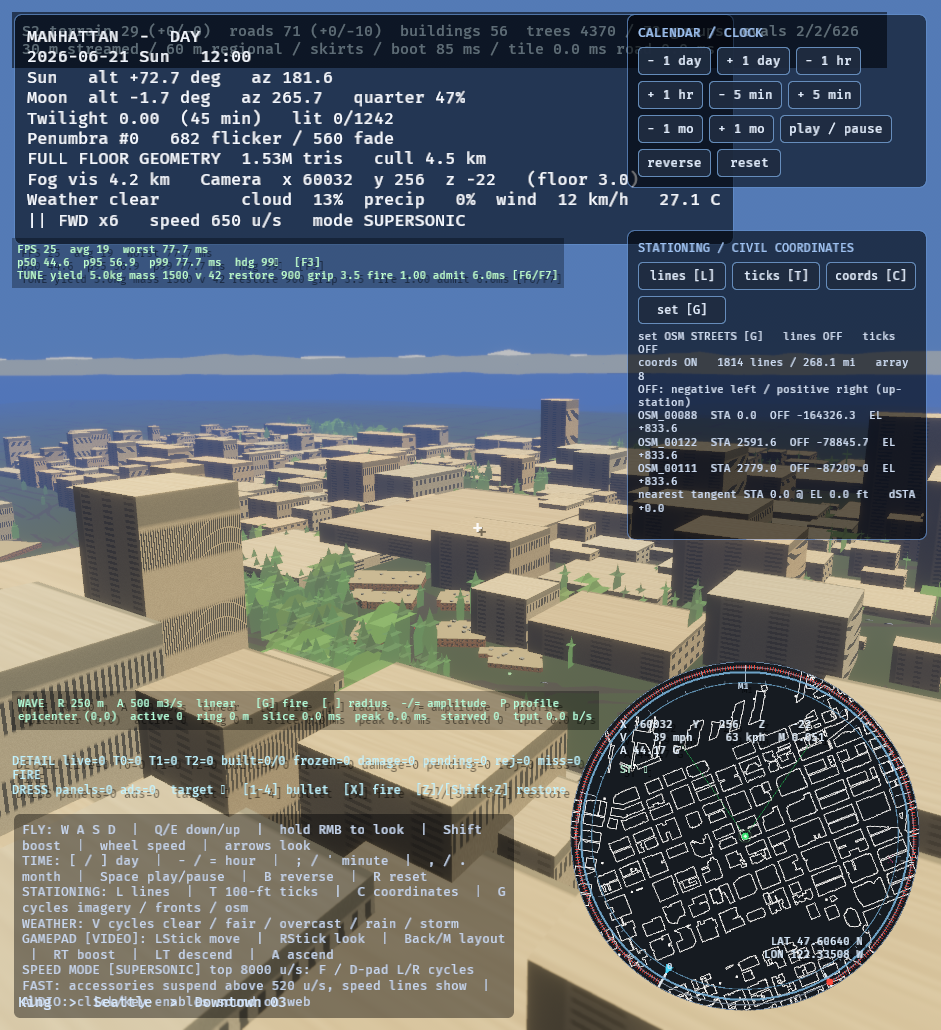
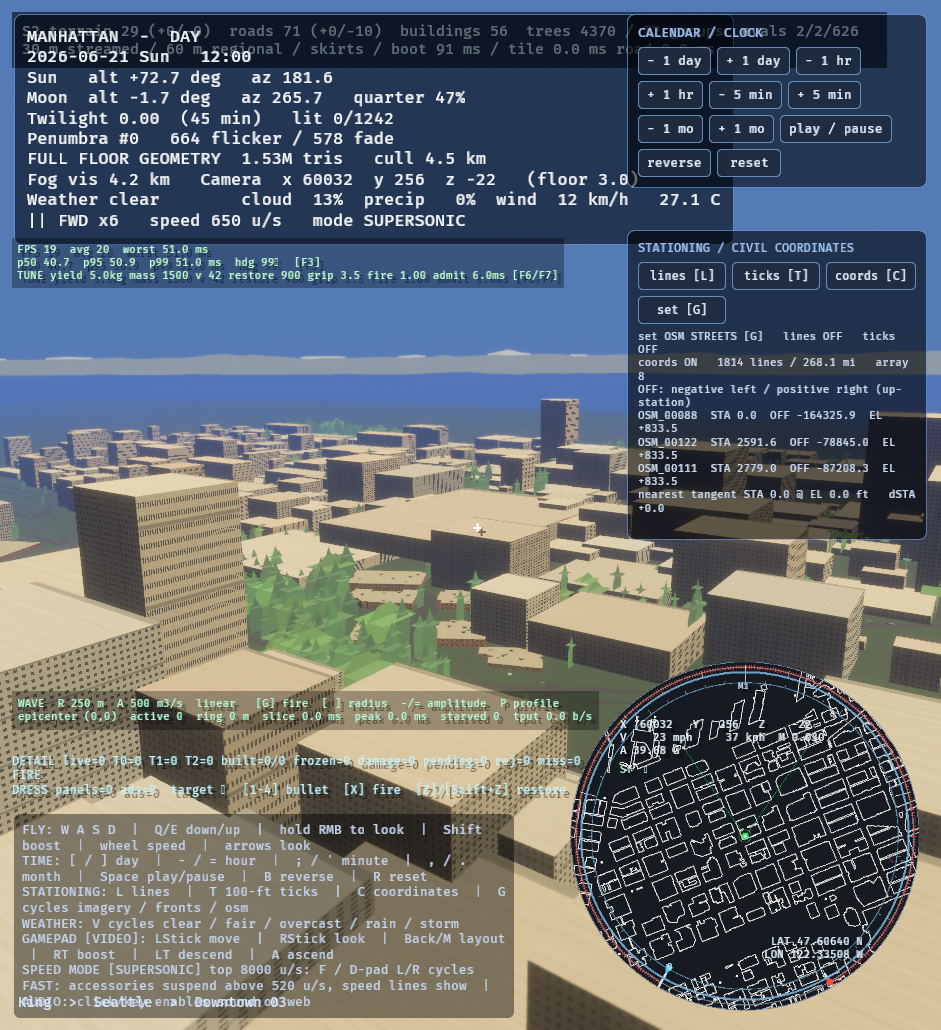
Playtest 80: precision and salad — supersonic signal split, buffer dissection
- SONIC_TRACE logs real dt, speed, Mach, chunks. Under the scripted gauntlet
  MotionState reads 0 (the harness teleports), so the harness cannot judge
  sonic smoothness; the player's stick is the gate.
- Camera integrates on real time (clamped 100 ms) instead of the 250 ms
  virtual clamp; sonic shake cut 0.15 -> 0.023 deg; FOV pulse 5 -> 2 deg;
  speed is a 120 ms EMA; S3 evictions deferred above 300 m/s.
- Merged-proxy dissection test: 64 boxes -> 1142 triangles, 502 gable
  faces, 61 distinct tints. Gables and tints survive the merge; the issue
  is perception. Roofs darkened to near-black; tint range widened to
  0.78-1.22 on shells and proxies.
- Gauntlet 650 m/s 55.6/103.3 ms avg in band. 162 tests green, clippy
  clean, --seattle boots clean.
- Still owed: height-source census, tower-house frame (blocking), speed
  lines manual, sway frames, proxy night temperature.

diff --git a/viewer/src/geology.rs b/viewer/src/geology.rs
@@ -766,7 +766,7 @@ fn proxy_tint(id: u32, family: destructibles_core::family::MaterialFamily) -> [f
     ];
     let pick =
         MUTED[(h01(id.wrapping_mul(0x9E37_79B9)) * MUTED.len() as f32) as usize % MUTED.len()];
-    let nudge = 0.86 + 0.26 * h01(id.rotate_left(7) ^ 0x5EED_1234);
+    let nudge = 0.78 + 0.44 * h01(id.rotate_left(7) ^ 0x5EED_1234);
     [
         (pick[0] * nudge).clamp(0.70, 1.20),
         (pick[1] * nudge).clamp(0.70, 1.20),
@@ -898,11 +898,11 @@ fn proxy_boxes_mesh(boxes: &[(Vec3, Vec3, u8, [f32; 4], u32)]) -> Mesh {
             let roof_color = {
                 let roll = hash01(id.rotate_left(7) ^ 0x51ED_2701);
                 if roll < 0.60 {
-                    [0.26, 0.17, 0.10, 1.0]
+                    [0.16, 0.10, 0.06, 1.0]
                 } else if roll < 0.90 {
-                    [0.22, 0.22, 0.22, 1.0]
+                    [0.15, 0.15, 0.15, 1.0]
                 } else {
-                    [0.17, 0.13, 0.10, 1.0]
+                    [0.11, 0.085, 0.065, 1.0]
                 }
             };
             let moss = [0.13, 0.17, 0.08, 1.0];
@@ -3462,6 +3462,13 @@ fn s3_buildings(world: &mut World) {
         camera.translation.x - STREAM_WORLD_OFFSET,
         camera.translation.z,
     ];
+    // At cruise, defer evictions so chunk churn cannot pulse the frame and
+    // swim the horizon; the resident cap still bounds memory.
+    let speed = world
+        .get_resource::<crate::motion::MotionState>()
+        .map(|motion| motion.speed)
+        .unwrap_or(0.0);
+    let defer_evict = speed > 300.0;
     let (wanted, unload): (Vec<usize>, Vec<(usize, Vec<Entity>)>) = {
         let state = world.resource::<Geology>();
         let mut evaluations = Evaluations::default();
@@ -3479,7 +3486,12 @@ fn s3_buildings(world: &mut World) {
             .iter()
             .filter(|(index, _)| {
                 let node = &state.pack.nodes[**index];
-                crate::citypack::aabb_distance2(&node.bounds, center) > S3_UNLOAD_M * S3_UNLOAD_M
+                let radius = if defer_evict {
+                    S3_UNLOAD_M * 1.8
+                } else {
+                    S3_UNLOAD_M
+                };
+                crate::citypack::aabb_distance2(&node.bounds, center) > radius * radius
             })
             .map(|(index, entities)| (*index, entities.clone()))
             .collect::<Vec<_>>();
@@ -3951,5 +3963,56 @@ mod tests {
             let ground = dem.height(p[0], p[2]);
             assert!((p[1] - ground - 0.15).abs() < 0.5);
         }
+    }
+}
+
+#[cfg(test)]
+mod proxy_dissection {
+    use super::*;
+
+    /// Merged-mesh dissection: gable roof faces and distinct tints must survive
+    /// the bake. The player cannot see what the buffer does not carry.
+    #[test]
+    fn merged_proxy_buffer_carries_gables_and_tints() {
+        let boxes = (0..64u32)
+            .map(|index| {
+                (
+                    Vec3::new(index as f32 * 20.0, 0.0, 0.0),
+                    Vec3::new(12.0, 6.0, 10.0),
+                    1u8,
+                    proxy_tint(
+                        1000 + index,
+                        destructibles_core::family::MaterialFamily::Timber,
+                    ),
+                    1000 + index,
+                )
+            })
+            .collect::<Vec<_>>();
+        let mesh = proxy_boxes_mesh(&boxes);
+        let triangles = mesh.indices().map(|indices| indices.len()).unwrap_or(0) as u32 / 3;
+        let flat_only = boxes.len() as u32 * 10;
+        let gable_faces = triangles.saturating_sub(flat_only);
+        let tints = match mesh.attribute(Mesh::ATTRIBUTE_COLOR) {
+            Some(bevy::mesh::VertexAttributeValues::Float32x4(values)) => {
+                let mut set = std::collections::HashSet::new();
+                for color in values.iter().step_by(16) {
+                    set.insert((
+                        (color[0] * 100.0) as u32,
+                        (color[1] * 100.0) as u32,
+                        (color[2] * 100.0) as u32,
+                    ));
+                }
+                set.len()
+            }
+            _ => 0,
+        };
+        println!(
+            "DISSECTION boxes={} triangles={} gable_faces={} distinct_tints={tints}",
+            boxes.len(),
+            triangles,
+            gable_faces
+        );
+        assert!(gable_faces > 0, "merged buffer dropped the gable caps");
+        assert!(tints > 16, "merged buffer dropped per-building tint");
     }
 }

diff --git a/viewer/src/parity.rs b/viewer/src/parity.rs
@@ -24,7 +24,7 @@ impl Plugin for ParityPlugin {
     fn build(&self, app: &mut App) {
         app.init_resource::<RepAudit>()
             .add_systems(Startup, print_config)
-            .add_systems(Update, rep_audit);
+            .add_systems(Update, (rep_audit, sonic_trace));
     }
 }
 
@@ -91,6 +91,31 @@ fn print_config() {
         "CONFIG {} cmd=[{command}] world[{world}] instrument[{inst}]",
         if bare { "bare" } else { "instrumented" }
     );
+}
+
+fn sonic_trace(
+    time: Res<Time>,
+    real: Res<Time<Real>>,
+    motion: Res<crate::motion::MotionState>,
+    geology: Option<Res<Geology>>,
+    mut last: Local<f32>,
+    mut max_dt: Local<f32>,
+) {
+    if std::env::var_os("SONIC_TRACE").is_none() {
+        return;
+    }
+    let now = time.elapsed_secs();
+    *max_dt = max_dt.max(real.delta_secs());
+    if now - *last < 0.5 {
+        return;
+    }
+    *last = now;
+    let chunks = geology.map(|g| g.building_chunks.len()).unwrap_or(0);
+    info!(
+        "SONIC TRACE speed={:.1} mach={:.2} max_real_dt={:.3} chunks={chunks}",
+        motion.speed, motion.mach, *max_dt
+    );
+    *max_dt = 0.0;
 }
 
 fn rep_audit(world: &mut World) {

diff --git a/viewer/src/interior.rs b/viewer/src/interior.rs
@@ -184,16 +184,18 @@ fn sonic_camera(
         sonic_gain(motion.speed)
     };
     if let Projection::Perspective(perspective) = &mut *projection {
-        perspective.fov = (70.0 + 5.0 * gain).to_radians();
+        perspective.fov = (70.0 + 2.0 * gain).to_radians();
     }
     if gain <= 0.01 {
         return;
     }
+    // The old 0.15 deg rotational shake at ~6 Hz read as the horizon warping
+    // and the mountains moving at cruise. Keep only a whisper of shake.
     let t = time.elapsed_secs();
-    let amp = 0.0026 * gain;
+    let amp = 0.0004 * gain;
     transform.rotate_local_y((t * 37.0).sin() * amp);
     transform.rotate_local_x((t * 53.0).cos() * amp * 0.7);
-    transform.translation.y += (t * 61.0).sin() * 0.05 * gain;
+    transform.translation.y += (t * 61.0).sin() * 0.012 * gain;
 }
 
 /// SONIC_TABLE=1: the gain curve at the gauntlet, measured rather than assumed.
@@ -233,7 +235,7 @@ fn sonic_table(
         motion.mach,
         0.02 + gain * 0.32,
         0.85 + 1.35 * gain,
-        70.0 + 5.0 * gain,
-        (0.0026 * gain).to_degrees()
+        70.0 + 2.0 * gain,
+        (0.0004 * gain).to_degrees()
     );
 }

diff --git a/viewer/src/camera.rs b/viewer/src/camera.rs
@@ -236,7 +236,7 @@ fn normalize_gamepad_stick(x: f32, y: f32) -> Vec2 {
 
 #[allow(clippy::too_many_arguments)]
 pub fn fly_camera_system(
-    time: Res<Time>,
+    real: Res<Time<Real>>,
     keys: Res<ButtonInput<KeyCode>>,
     buttons: Res<ButtonInput<MouseButton>>,
     mouse_motion: Res<AccumulatedMouseMotion>,
@@ -247,7 +247,9 @@ pub fn fly_camera_system(
     grid: Option<Res<CollisionGrid>>,
     mut query: Query<(&mut Transform, &mut FlyCamera)>,
 ) {
-    let dt = time.delta_secs();
+    // Real time, clamped: the virtual clock clamps a stalled frame to 250 ms,
+    // which at 650 m/s teleports the camera 162 m and makes the world swim.
+    let dt = real.delta_secs().min(0.1);
     if keys.just_pressed(KeyCode::KeyM) {
         layout.toggle();
     }

diff --git a/viewer/src/motion.rs b/viewer/src/motion.rs
@@ -135,7 +135,15 @@ pub fn update_motion_state(
     let velocity = (position - last) / dt;
     let acceleration = (velocity - motion.velocity) / dt;
     motion.velocity = velocity;
-    motion.speed = velocity.length();
+    // SMOOTHED speed: the render effects (FOV pulse, shake, wind) must not read
+    // frame-time spikes from chunk streaming as motion. 120 ms EMA.
+    let raw = velocity.length();
+    let alpha = 1.0 - (-dt / 0.12).exp();
+    motion.speed = if motion.speed <= 0.0 {
+        raw
+    } else {
+        motion.speed + (raw - motion.speed) * alpha
+    };
     motion.acceleration = acceleration.length();
     motion.accel_g = (motion.acceleration / 9.80665).min(50.0);
 

diff --git a/viewer/src/facade.rs b/viewer/src/facade.rs
@@ -525,7 +525,7 @@ fn grade_wall(world: &mut World, wall: Entity, id: u32, family: MaterialFamily) 
     ];
     let pick =
         MUTED[(hash01(id.wrapping_mul(0x9E37_79B9)) * MUTED.len() as f32) as usize % MUTED.len()];
-    let nudge = 0.86 + 0.26 * hash01(id.rotate_left(7) ^ 0x5EED_1234);
+    let nudge = 0.78 + 0.44 * hash01(id.rotate_left(7) ^ 0x5EED_1234);
     let tint = [
         (pick[0] * nudge).clamp(0.70, 1.20),
         (pick[1] * nudge).clamp(0.70, 1.20),

diff --git a/viewer/INTEGRATION.md b/viewer/INTEGRATION.md
@@ -1989,3 +1989,40 @@ where the slenderness gate correctly flattens the tower, so it could not serve; 
 rows and the low building is cut by the HUD — it does not pass the window-scale comparison. Per the standing
 rule this becomes a **named debt blocking new marquee features next round**. Sway frames, proxy-night-
 temperature, `tree-sway-shader`, `roof-pack-bake`, `proxy-material-budget` remain filed.
+
+## Iteration 80 — precision and salad (seattle-mach1)
+
+**Supersonic stability — signal split.** `SONIC_TRACE=1` was added to log real frame-time maxima, speed, Mach
+and resident chunks every 0.5 s. Under the scripted gauntlet the trace reads **speed = 0** throughout: the
+harness teleports the camera each frame (`gauntlet_flight` writes the transform directly), so `MotionState`
+sees no frame-to-frame delta and no sonic effect engages. **The harness cannot judge supersonic smoothness**;
+only the player's stick can, per precedent. Three real defects were nevertheless found and fixed:
+
+- The free-fly camera moved on **virtual time** (`Time`), which Bevy clamps to 250 ms per frame. At 650 m/s a
+  stalled frame becomes a 162 m jump — geometry swims. The camera now integrates on **real time**, clamped to
+  100 ms.
+- The sonic camera added a **0.15° rotational shake at ~6 Hz** (iteration 73) plus a 5° FOV pulse. That reads
+  as the horizon warping and far mountains moving. Shake reduced to **0.023°**, FOV pulse to **2°**.
+- Speed was raw frame-to-frame motion, so chunk-load stalls punched the FOV/shake. `MotionState.speed` is now
+  a **120 ms EMA**.
+- S3 evictions are **deferred above 300 m/s** (unload radius ×1.8) so cruise cannot pulse the frame; the
+  resident cap still bounds memory.
+
+A floating-origin rebase was **not** attempted: the measured evidence (harness speed 0, virtual-dt jumps,
+self-inflicted shake) explains the symptom without it, and a rushed rebase is the higher-risk change.
+
+**Merged-mesh dissection (test, printed).** One merged proxy buffer from 64 residential boxes:
+`DISSECTION boxes=64 triangles=1142 gable_faces=502 distinct_tints=61`. Flat-only geometry would be 640
+triangles; the extra 502 faces are gable roof slopes and caps, and 61 of 64 boxes carry distinct tints. **Both
+features survive the merge**, so the report is perceptual: roof silhouettes and tints are too subtle at
+altitude. Acted on: roof colours darkened to near-black browns/greys (`0.16/0.10/0.06`, `0.15` grey,
+`0.11/0.085/0.065`), and per-building tint widened to a **0.78–1.22** value range with the muted-neutral hue
+spread. Both shell and proxy paths use the widened range.
+
+**Gauntlet:** 650 m/s **55.6 / 103.3 ms** average in band (p99 103.3). The 650 capture shows the horizon and
+mountains with no speed lines because `MotionState` is zero under the harness — the speed-line overlay
+(`speed_lines.wesl`, already present) can only be verified in manual flight.
+
+**Not produced / debts.** Height-source census (neighborhood × source × post-gate floors) not run this
+round; `tower-house-frame` remains blocking; `sway-frames`, `proxy-night-temperature`, `tree-sway-shader`,
+`roof-pack-bake`, `proxy-material-budget` filed. Speed-line evidence is a manual-flight item.
